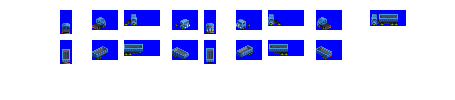
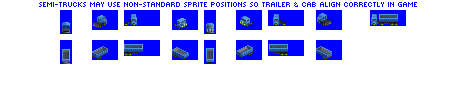
Change: correct offsets for Honister farm truck

diff --git a/src/vehicles/honister.py b/src/vehicles/honister.py
@@ -12,14 +12,15 @@ consist = EngineConsist(id = 'honister',
 consist.add_unit(BulkFarmHauler(consist = consist,
                         weight = 6,
                         capacity = 0,
-                        vehicle_length = 7,
+                        vehicle_length = 2,
+                        semi_truck_shift_offset_jank = 2,
                         visual_effect = 'VISUAL_EFFECT_DIESEL',
                         spriterow_num = 0))
 
 consist.add_unit(BulkFarmHauler(consist = consist,
                         weight = 6,
                         capacity = 35,
-                        vehicle_length = 7,
+                        vehicle_length = 5,
                         spriterow_num = 1))
 
 consist.add_model_variant(intro_date=0,
